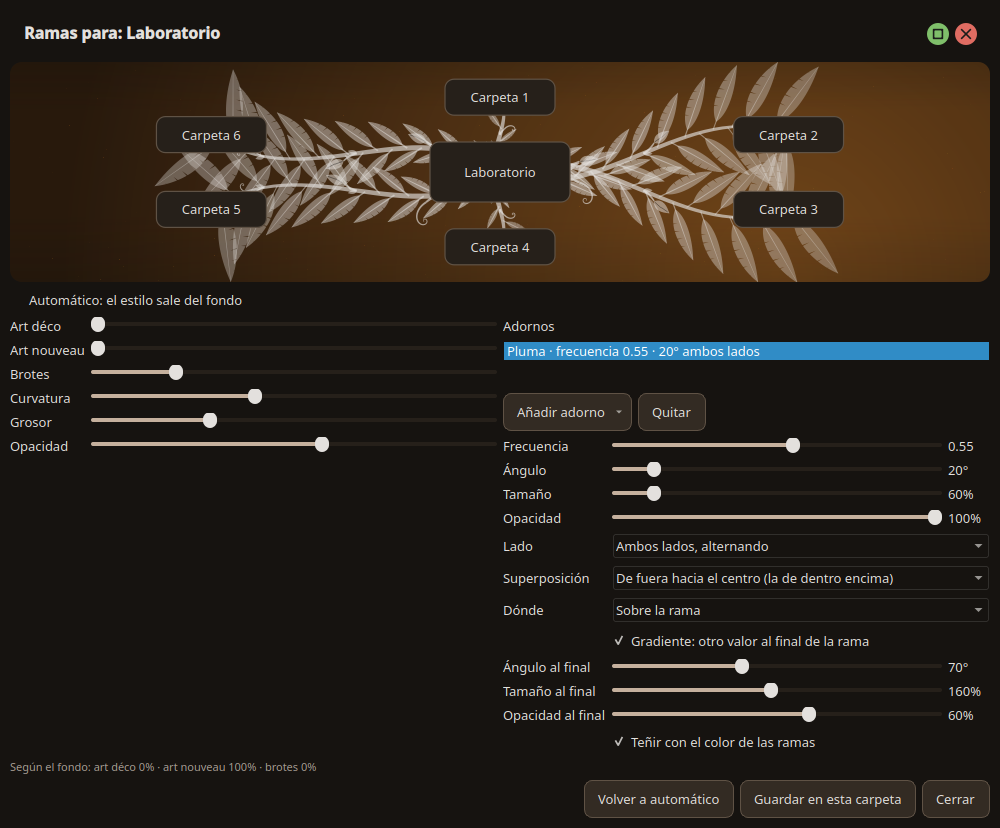
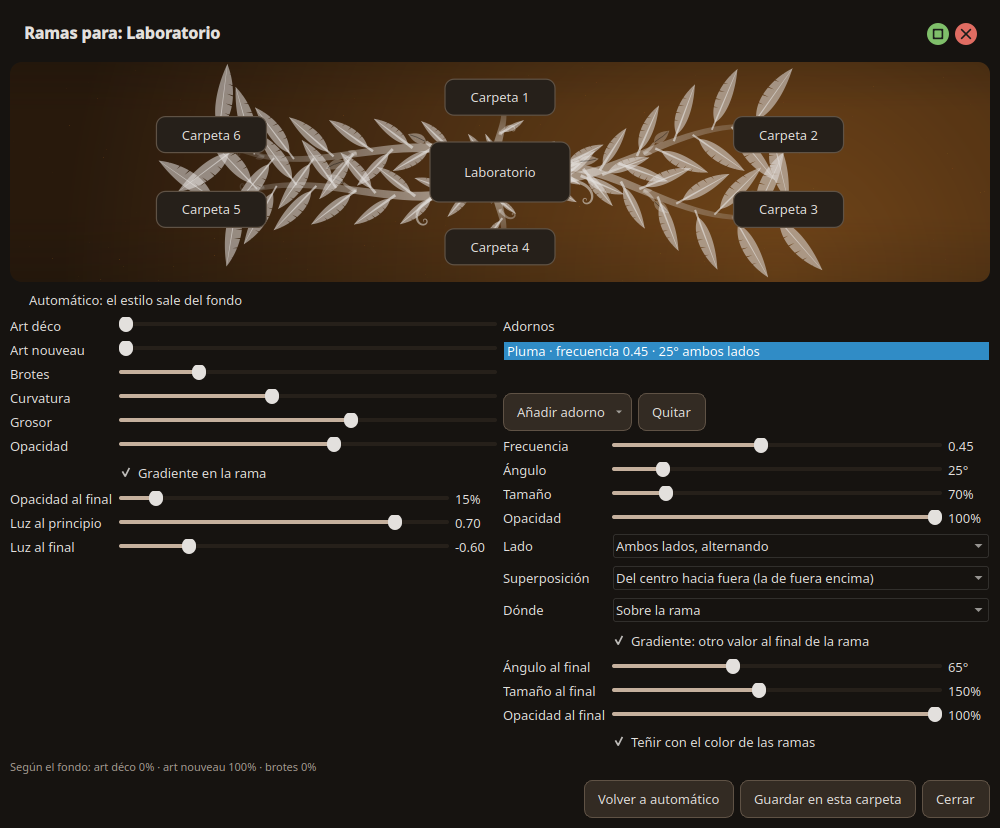
Ramas: gradiente propio de la rama (opacidad y luz), aparte del de los adornos

diff --git a/desktop/prosperus/branches.py b/desktop/prosperus/branches.py
@@ -7,7 +7,7 @@ import random
 from PySide6.QtCore import QPointF, Qt
 from functools import lru_cache
 
-from PySide6.QtGui import QColor, QImage, QPainter, QPainterPath, QPen
+from PySide6.QtGui import QColor, QImage, QLinearGradient, QPainter, QPainterPath, QPen
 
 
 def cubic_points(p0, c1, c2, p1, steps=32):
@@ -309,6 +309,21 @@ def branch(painter, start, end, start_width, end_width, color, seed=0, sprigs=3,
     # Retoques personales (aplicación «Ramas»): curvatura y grosor.
     curl *= traits.get('curl', 1)
     start_width *= traits.get('width', 1); end_width *= traits.get('width', 1)
+    # Gradiente propio de la rama (aparte del de los adornos): opacidad y luz del principio a la punta.
+    base_color, gradient = QColor(color), traits.get('branch_gradient')
+
+    def tone(t, factor=1.0):
+        result = QColor(base_color)
+        if gradient:
+            light = gradient['light'] + (gradient['light_end'] - gradient['light']) * t
+            target = QColor(255, 255, 255) if light > 0 else QColor(0, 0, 0)
+            mix = abs(light) * .6
+            result = QColor(round(result.red() + (target.red() - result.red()) * mix),
+                            round(result.green() + (target.green() - result.green()) * mix),
+                            round(result.blue() + (target.blue() - result.blue()) * mix), result.alpha())
+            factor *= 1 + (gradient['alpha_end'] - 1) * t
+        result.setAlphaF(max(0.0, min(1.0, base_color.alphaF() * factor)))
+        return result
     direction = end - start
     length = math.hypot(direction.x(), direction.y()) or 1
     side = QPointF(-direction.y(), direction.x()) * (curl * (1 if seed % 2 else -1))
@@ -324,7 +339,13 @@ def branch(painter, start, end, start_width, end_width, color, seed=0, sprigs=3,
         whip = cubic_points(start, start + direction * .2 + swirl * 1.3, start + direction * .85 - swirl * .7, end)
         points = [p * (1 - glow) + w * glow for p, w in zip(points, whip)]
     painter.setPen(Qt.PenStyle.NoPen)
-    painter.setBrush(color)
+    if gradient:
+        fill = QLinearGradient(start, end)
+        for stop in (0, .5, 1):
+            fill.setColorAt(stop, tone(stop))
+        painter.setBrush(fill)
+    else:
+        painter.setBrush(color)
     band = tapered(points, start_width, end_width)
     if straight > .5:
         # Doble línea art déco: la banda queda hueca por dentro.
@@ -340,6 +361,7 @@ def branch(painter, start, end, start_width, end_width, color, seed=0, sprigs=3,
         base, heading = points[i], _heading(points, i)
         turn = 1 if (k + seed) % 2 else -1
         width = start_width + (end_width - start_width) * t
+        color, soft = tone(t), tone(t, .8)  # cada brote, del color de su tramo de rama
         roll = rng.random()
         if roll < glow * .75:
             # Brote art nouveau: tallo largo y sinuoso que acaba en seta, lirio, ojo de pavo real o zarcillo.
@@ -396,9 +418,10 @@ def branch(painter, start, end, start_width, end_width, color, seed=0, sprigs=3,
             painter.setPen(Qt.PenStyle.NoPen)
         small, _ = leaf_paths(base, heading - turn * .42, size * .55)
         painter.setBrush(soft); painter.drawPath(small)
-    # Adornos propios (aplicación «Ramas»): repartidos por la longitud de la rama.
+    # Adornos propios (aplicación «Ramas»): repartidos por la longitud de la rama, con su propio gradiente.
     if traits.get('ornaments'):
-        place_ornaments(painter, traits['ornaments'], points, start_width, end_width, color, size, seed)
+        place_ornaments(painter, traits['ornaments'], points, start_width, end_width, base_color, size, seed)
+    color, soft = tone(.9), tone(.9, .8)
     # Destellos alrededor de la rama según el brillo del fondo.
     for _ in range(round(glow * 3)):
         i = rng.randrange(len(points))

diff --git a/desktop/prosperus/branch_settings.py b/desktop/prosperus/branch_settings.py
@@ -119,6 +119,21 @@ class BranchSettings(QWidget):
         for key, label in TWEAK_LABELS:
             low, high = branch_style.TWEAKS[key]
             self.sliders[key] = self.slider(form, label, round(low * 100), round(high * 100), saved.get(key, 1) * 100)
+        # Gradiente de la rama, aparte del de los adornos.
+        self.branch_form = form
+        self.branch_gradient = QCheckBox('Gradiente en la rama')
+        self.branch_gradient.setChecked(saved.get('branch_gradient') is True)
+        form.addRow('', self.branch_gradient)
+        self.branch_bars = {
+            'opacity_end': self.value_slider(form, 'Opacidad al final', 0, 160, 100, '%'),
+            'light': self.value_slider(form, 'Luz al principio', -100, 100, 100, ''),
+            'light_end': self.value_slider(form, 'Luz al final', -100, 100, 100, '')}
+        defaults = {'opacity_end': saved.get('opacity', 1), 'light': 0, 'light_end': 0}
+        for key, slider in self.branch_bars.items():
+            value = saved.get(key, defaults[key])
+            slider.setValue(round((value if isinstance(value, (int, float)) else defaults[key]) * 100))
+            slider.valueChanged.connect(self.update_preview)
+        self.branch_gradient.toggled.connect(self.update_preview)
         columns.addLayout(self.build_ornaments(saved), 1)
         self.measured = QLabel(); self.measured.setObjectName('muted')
         layout.addWidget(self.measured)
@@ -242,8 +257,12 @@ class BranchSettings(QWidget):
                 self.edit_form.setRowVisible(row, visible)
 
     def row_of(self, slider):
-        for row in range(self.edit_form.rowCount()):
-            field = self.edit_form.itemAt(row, QFormLayout.ItemRole.FieldRole)
+        return self.row_in(self.edit_form, slider)
+
+    @staticmethod
+    def row_in(form, slider):
+        for row in range(form.rowCount()):
+            field = form.itemAt(row, QFormLayout.ItemRole.FieldRole)
             if field and field.layout() and field.layout().indexOf(slider) >= 0:
                 return row
         return -1
@@ -300,6 +319,10 @@ class BranchSettings(QWidget):
         data = {'auto': self.auto.isChecked()}
         for key in branch_style.STYLE_KEYS + tuple(branch_style.TWEAKS):
             data[key] = round(self.sliders[key].value() / 100, 2)
+        if hasattr(self, 'branch_gradient'):
+            data['branch_gradient'] = self.branch_gradient.isChecked()
+            for key, slider in self.branch_bars.items():
+                data[key] = round(slider.value() / 100, 2)
         data['ornaments'] = []
         for item in getattr(self, 'ornaments', []):
             entry = {key: value for key, value in item.items() if key not in ('path', 'file')}
@@ -320,6 +343,11 @@ class BranchSettings(QWidget):
         automatic = self.auto.isChecked()
         for key in branch_style.STYLE_KEYS:
             self.sliders[key].setEnabled(not automatic)
+        if hasattr(self, 'branch_bars'):
+            for slider in self.branch_bars.values():
+                row = self.row_in(self.branch_form, slider)
+                if row >= 0:
+                    self.branch_form.setRowVisible(row, self.branch_gradient.isChecked())
         self.preview.traits = self.preview_traits()
         if self.auto_traits:
             self.measured.setText('Según el fondo: art déco {:.0%} · art nouveau {:.0%} · brotes {:.0%}'.format(

diff --git a/tests/test_model.py b/tests/test_model.py
@@ -281,6 +281,18 @@ class LinkLayoutTests(unittest.TestCase):
             self.assertIn('straight', branch_style.load(child, root))  # vuelve a heredar de arriba
             with self.assertRaises(ValueError):
                 branch_style.save(root / 'no-existe', {})
+            # Gradiente de la rama: aparte de los adornos y solo si está activado.
+            self.assertNotIn('branch_gradient', branch_style.clean({'opacity_end': .2, 'light': 1}))
+            gradient = branch_style.clean({'branch_gradient': True, 'opacity': .8, 'opacity_end': .2, 'light': 5, 'light_end': -.5})
+            self.assertEqual(gradient['branch_gradient'], {'alpha_end': .25, 'light': 1.0, 'light_end': -.5})
+            from PySide6.QtCore import QPointF
+            from PySide6.QtGui import QColor, QImage, QPainter
+            from prosperus.branches import branch
+            canvas = QImage(300, 120, QImage.Format.Format_ARGB32); canvas.fill(0)
+            painter = QPainter(canvas)
+            branch(painter, QPointF(10, 60), QPointF(290, 60), 12, 10, QColor(200, 200, 200), 0, 0, 0, gradient)
+            painter.end()
+            self.assertGreater(canvas.pixelColor(20, 60).alpha(), canvas.pixelColor(280, 60).alpha())
 
     def test_branch_ornaments_images_frequency_and_safety(self):
         import tempfile

diff --git a/desktop/prosperus/branch_style.py b/desktop/prosperus/branch_style.py
@@ -57,6 +57,13 @@ def clean(data, base=None):
     for key, (low, high) in TWEAKS.items():
         if isinstance(data.get(key), (int, float)):
             result[key] = max(low, min(high, float(data[key])))
+    if data.get('branch_gradient') is True:
+        # Gradiente de la rama: opacidad final (relativa a la del principio) y luz -1..1 en cada extremo.
+        value = lambda key, low, high, default: max(low, min(high, float(data[key]))) \
+            if isinstance(data.get(key), (int, float)) and not isinstance(data.get(key), bool) else default
+        start = value('opacity', *TWEAKS['opacity'], 1.0)
+        result['branch_gradient'] = {'alpha_end': value('opacity_end', *TWEAKS['opacity'], start) / (start or 1),
+                                     'light': value('light', -1.0, 1.0, 0.0), 'light_end': value('light_end', -1.0, 1.0, 0.0)}
     ornaments = []
     for item in data.get('ornaments', []) if isinstance(data.get('ornaments'), list) else []:
         if not isinstance(item, dict) or len(ornaments) >= MAX_ORNAMENTS:

diff --git a/docs/WORKLOG.md b/docs/WORKLOG.md
@@ -390,3 +390,4 @@ Cierre: paquete local out/prosperus-demo-v4.tar.gz preparado, 7.648.493 bytes, S
 - Fantasía en art nouveau: tronco en latigazo (todos con el mismo giro para no cruzarse), tallos largos y sinuosos con perlas que acaban en lirio, ojo de pluma de pavo real, zarcillo o seta (siempre hacia arriba), más brotes y destellos sutiles. Tres estilos artísticos según el fondo: árbol de la vida (natural), art déco (rectitud) y art nouveau (ámbar/fantasía). Comparación actualizada en `docs/images/ramas-procedurales.png`.
 - Aplicación «Ramas» (`prosperus-ramas`, `branch_settings.py`): personaliza las ramas de la carpeta actual con vista previa en directo sobre su fondo. Automático (según el fondo) o estilo a mano (art déco, art nouveau, brotes); retoques de curvatura, grosor y opacidad. Adornos: piezas de serie (seta, lirio, ojo de pavo real, zarcillo, hoja, greca, rombo, destello) o imágenes propias, cada uno con «1 de cada N brotes», sitio (sobre la rama o al final de un tallo), tamaño y tinte. Las imágenes se copian a `.prosperus-adornos/` y los ajustes a `.prosperus-ramas.json`; las subcarpetas lo heredan y el escritorio se actualiza al guardar. Solo se aceptan imágenes dentro de esa carpeta (sin rutas). 121 pruebas correctas. OpenRouter no se usó (429 toda la sesión).
 - Adornos por barra en vez de «1 de cada N brotes»: frecuencia 0-1 (0 nunca, 1 cada 6 px a lo largo de la rama), ángulo 0-180° respecto a la rama con lado horario, antihorario o ambos alternando, superposición (la de fuera o la de dentro encima), sitio, tamaño, opacidad y tinte. Gradiente opcional de tamaño, ángulo y opacidad del principio al final de la rama (alas de plumas). Pieza nueva: pluma. Las imágenes propias giran con el ángulo. Los ajustes antiguos se convierten solos. 121 pruebas correctas.
+- Gradiente propio de la rama, independiente del de los adornos: opacidad al final y luz al principio/al final (más clara u oscura sin salir del tono de la carpeta). Los brotes toman el color de su tramo; los adornos conservan su gradiente.
